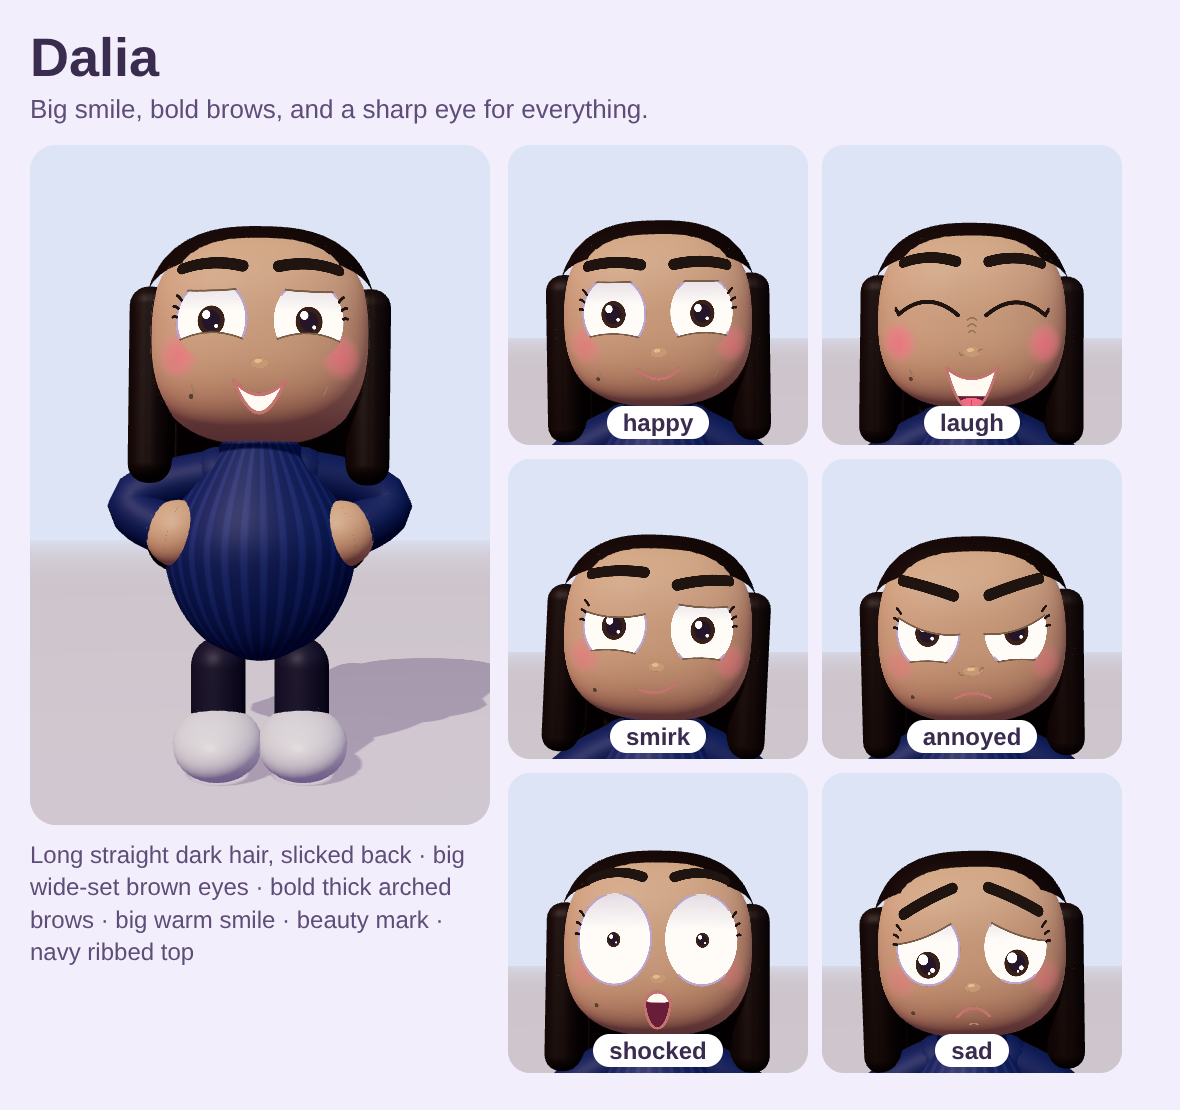
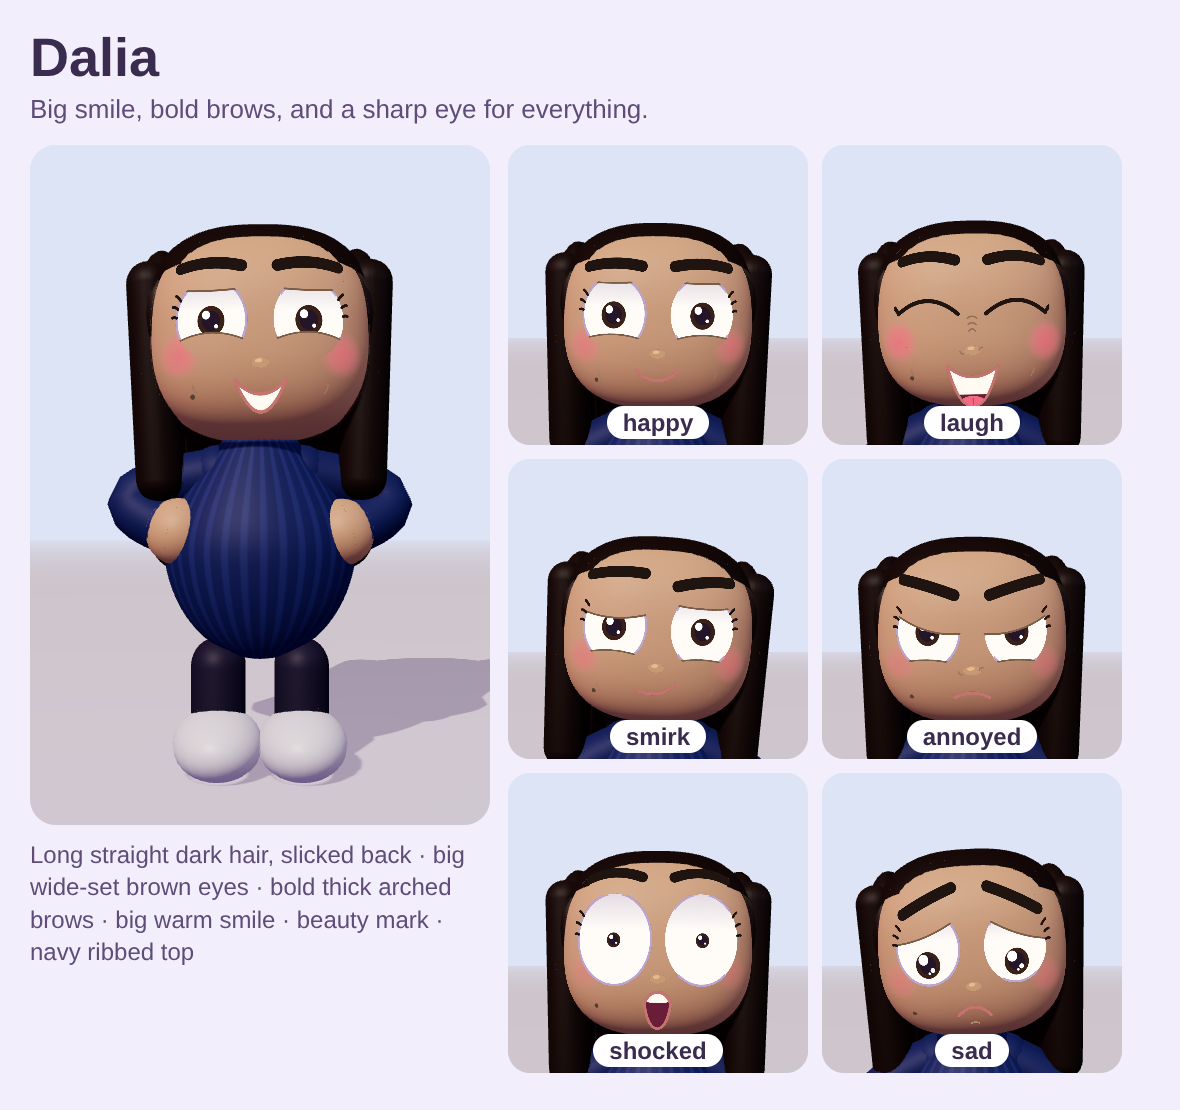
Dalia's side hair now flows from the top cap (hairFlow option, Priya unchanged); add turntable preview tool
Claude-Session: https://claude.ai/code/session_01Kz45xjeG9hM21H2JXSeFXF

diff --git a/characters/expressive/body.js b/characters/expressive/body.js
@@ -154,7 +154,15 @@ export function createExpressiveKit(THREE, RoundedBoxGeometry, kit) {
       cap(); hb(rx * 2.15, 2.3, 0.9, 0, -0.35, -rz * 0.7, 0.45); for (const s of [-1, 1]) hb(0.55, 1.75, 1.5, s * rx * 0.98, 0.0, -0.25);
       if (st === 'bangs') hb(rx * 1.7, 0.34, 0.55, 0, ry * 0.76, rz * 0.7, 0.16);
     }
-    else if (st === 'long') { cap(); hb(rx * 2.15, 3.3, 0.9, 0, -1.4, -rz * 0.7, 0.45); for (const s of [-1, 1]) hb(0.55, 2.5, 1.5, s * rx * 0.98, -0.6, -0.25); }
+    else if (st === 'long') {
+      cap(); hb(rx * 2.15, 3.3, 0.9, 0, -1.4, -rz * 0.7, 0.45);
+      for (const s of [-1, 1]) {
+        if (O.hairFlow) {   // option: the side hair flows down from the cap (no gap at the temples): tall soft locks that start up inside the cap and a blob that fills the temple
+          const lock = hb(0.62, 3.1, 1.55, s * rx * 0.95, -0.55, -0.3, 0.3); lock.rotation.z = -s * 0.04;
+          const t = ball(head, 0.5, hair, s * rx * 0.9, ry * 0.2, -0.3, { m: { roughness: 0.5 } }); t.scale.set(0.75, 1.9, 1.7);
+        } else hb(0.55, 2.5, 1.5, s * rx * 0.98, -0.6, -0.25);
+      }
+    }
     else if (st === 'ponytail') { cap(); const pt = box(head, 0.7, 2.0, 0.7, hair, 0, 0.2, -rz * 1.25, { round: 0.3 }); pt.rotation.x = 0.35; }
     else if (st === 'curly') { cap(1.05); for (let i = 0; i < 12; i++) { const a = (i / 12) * Math.PI * 2; ball(head, 0.66, hair, Math.cos(a) * rx * 1.02, 0.35 + Math.sin(a) * ry * 0.8, -0.25, { m: { roughness: 0.5 } }); } }
     else if (st === 'pigtails') {   // center part, two low curly pigtails with little ties
@@ -305,7 +313,7 @@ export function createExpressiveKit(THREE, RoundedBoxGeometry, kit) {
     { name: 'hana', tags: 'Soft round face · black bob with bangs · small eyes · coral top', bio: 'Quiet and observant. Her one raised eyebrow says it all.', skin: '#f3d0b0', hair: '#15121a', hairStyle: 'bangs', top: '#ff9b7a', bottom: '#4a4466', eye: '#2a1c14',
       build: { w: 0.95, h: 0.98, leg: 1.0, arm: 0.95 }, head: { rx: 1.46, ry: 1.24, rz: 1.2, n: 2.4 },
       look: { eyeScale: 0.92, eyeGap: 1.02, noseSize: 0.65, lipColor: '#c0485f', browThick: 0.85 } },
-    { name: 'dalia', tags: 'Long straight dark hair, slicked back · big wide-set brown eyes · bold thick arched brows · big warm smile · beauty mark · navy ribbed top', bio: 'Big smile, bold brows, and a sharp eye for everything.', skin: '#dcaa82', hair: '#2a1a16', hairStyle: 'long', top: '#27356b', pattern: { type: 'ribs', color2: '#33427d' }, bottom: '#2f2a45', eye: '#3a2118', browColor: '#1f1410',
+    { name: 'dalia', tags: 'Long straight dark hair, slicked back · big wide-set brown eyes · bold thick arched brows · big warm smile · beauty mark · navy ribbed top', bio: 'Big smile, bold brows, and a sharp eye for everything.', skin: '#dcaa82', hair: '#2a1a16', hairStyle: 'long', hairFlow: true, top: '#27356b', pattern: { type: 'ribs', color2: '#33427d' }, bottom: '#2f2a45', eye: '#3a2118', browColor: '#1f1410',
       build: { w: 0.98, h: 1.0, leg: 1.05, arm: 0.98 }, head: { rx: 1.42, ry: 1.33, rz: 1.18, n: 2.6 },
       look: { lashes: 0.5, eyeScale: 1.1, eyeGap: 1.02, browThick: 1.45, noseSize: 1.12, lipColor: '#c4746f', mole: { x: -262, y: 262 } } },
     { name: 'nina', tags: 'Six years old · dark curly pigtails with pink ties · big brown eyes · rosy cheeks · cream flower dress with a white collar', bio: 'Six years old, full of questions, and never sits still.', skin: '#f0c9a6', hair: '#43291b', hairStyle: 'pigtails', top: '#f6efe2', pattern: { type: 'floral', color2: '#f0a9b4' }, dress: true, buttons: '#f4efe6', bottom: '#f4e8dc', shoe: '#7a5642', eye: '#3a2118', browColor: '#2a1a12', kid: true,

diff --git a/characters/expressive/turntable.js b/characters/expressive/turntable.js
@@ -1,0 +1,23 @@
+const { chromium } = require('playwright'); const fs = require('fs');
+// Turntable preview: both characters side by side, the camera turns once around them, then pushes in on the faces. Needs the repo served on :8766.
+//   node characters/expressive/turntable.js <frames-folder> [name1 name2]   then join the jpgs with ffmpeg (24 fps)
+const OUT = process.argv[2], W = 1024, H = 576, FPS = 24, N = 240;
+const sm = u => { u = Math.min(1, Math.max(0, u)); return u * u * (3 - 2 * u); };
+(async () => {
+  const br = await chromium.launch({ args: ['--use-gl=angle', '--use-angle=swiftshader', '--enable-unsafe-swiftshader', '--ignore-gpu-blocklist'] });
+  const p = await br.newPage({ viewport: { width: W, height: H } });
+  p.on('pageerror', e => console.log('pageerror:', e.message));
+  await p.goto('http://localhost:8766/characters/expressive/stage.html'); await p.waitForFunction(() => window.ready);
+  await p.evaluate(() => window.build([{ person: process.argv[3] || 'dalia', x: -2.7 }, { person: process.argv[4] || 'amina', x: 2.7 }]));
+  for (let i = 0; i < N; i++) {
+    const t = i / FPS;
+    // 0-1s front, 1-8s one full turn, 8-10s push in on the two faces from the front
+    const a = sm((t - 1) / 7) * Math.PI * 2, push = sm((t - 8) / 2);
+    const r = 21 - 8 * push, h = 5.2 - 0.3 * push, ly = 3.9 + 1.2 * push, fov = 32 - 6 * push;
+    const pos = [Math.sin(a) * r, h, Math.cos(a) * r];
+    const st = [{ face: Math.sin(t * 0.9) > 0.2 ? 'big smile' : 'happy', pose: 'idle' }, { face: Math.sin(t * 0.9 + 1) > 0.2 ? 'big smile' : 'happy', pose: 'idle' }];
+    await p.evaluate(([W, H, pos, ly, fov, t, st]) => window.draw(W, H, [{ x: 0, y: 0, w: W, h: H, cam: { pos, look: [0, ly, 0], fov } }], t, st), [W, H, pos, ly, fov, t, st]);
+    await p.screenshot({ path: `${OUT}/f_${String(i).padStart(4, '0')}.jpg`, type: 'jpeg', quality: 92 });
+  }
+  await br.close();
+})();
